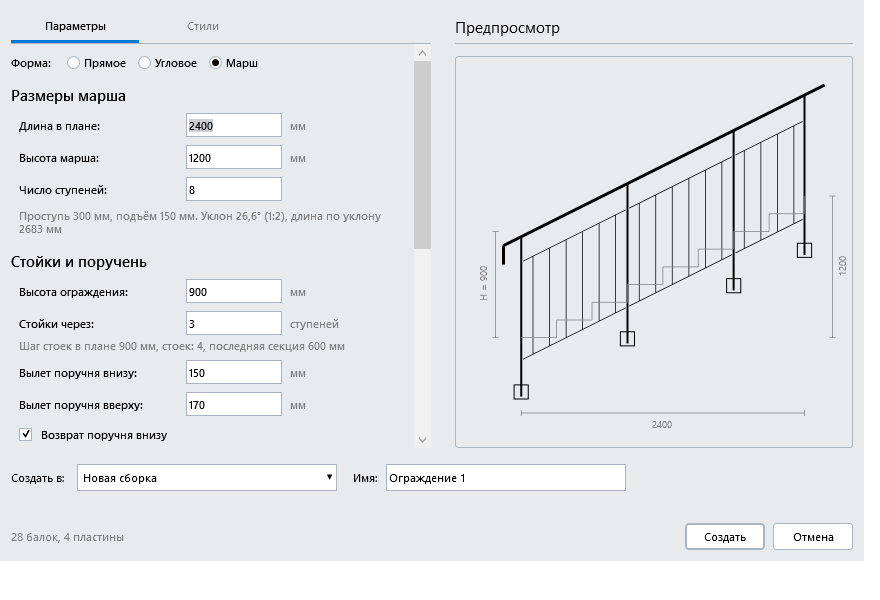
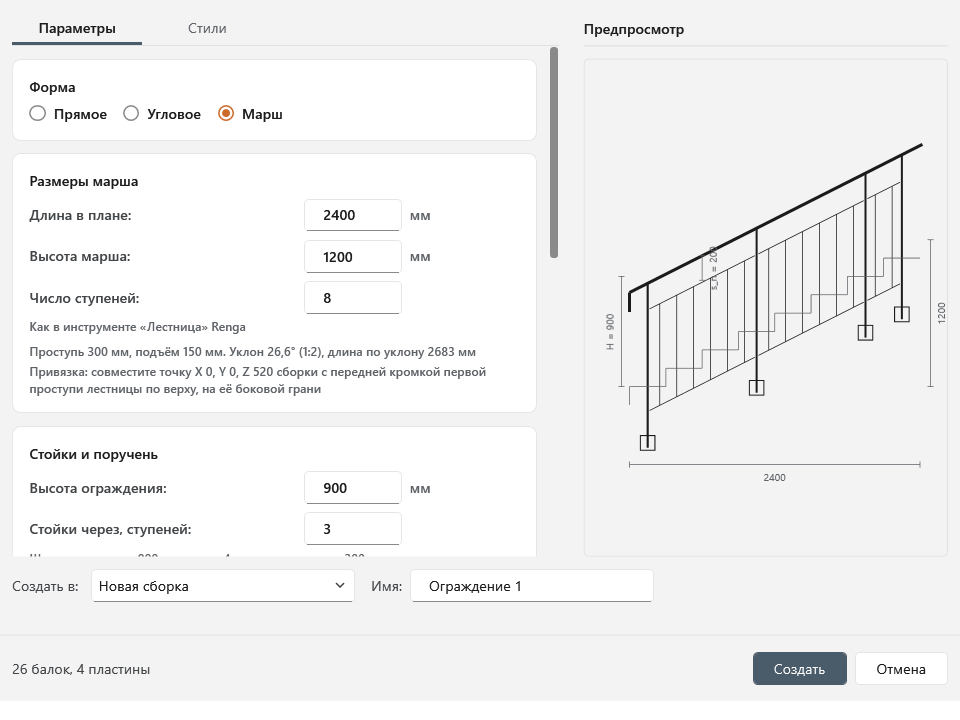
Версия 0.4: верхняя перекладина, крайняя стойка марша, окно Windows 11

diff --git a/README.md b/README.md
@@ -1,8 +1,8 @@
 # Генератор ограждений для Renga
 
-Плагин для [Renga](https://rengabim.com): создаёт ограждение из балок внутри сборки по заданной схеме — стойки, поручень, нижние перекладины, заполнение и пластины под стойками — для прямого и углового ограждений и для ограждения лестничного марша — и назначает им выбранные стили балок, стиль пластин и материал. Ограждение можно перестроить с другими параметрами: прежнее удаляется вместе с пластинами, остальные объекты сборки не затрагиваются.
+Плагин для [Renga](https://rengabim.com): создаёт ограждение из балок внутри сборки по заданной схеме — стойки, поручень, нижние и (по желанию) верхние перекладины, заполнение и пластины под стойками — для прямого и углового ограждений и для ограждения лестничного марша — и назначает им выбранные стили балок, стиль пластин и материал. Ограждение можно перестроить с другими параметрами: прежнее удаляется вместе с пластинами, остальные объекты сборки не затрагиваются.
 
-Версия 0.3.
+Версия 0.4.
 
 ![Окно «Генератор ограждений»](docs/window-params.png)
 
@@ -30,6 +30,13 @@
 
 ![Вкладка «Стили»](docs/window-styles.png)
 
+## Что нового в 0.4
+- **Верхняя перекладина** у прямого и углового ограждения (по желанию): включается галочкой, положение задаётся размером «Низ поручня — верх перекладины» (по умолчанию 200 мм). Заполнение при этом идёт только между нижней и верхней перекладиной. Стиль перекладины тот же, что у нижней.
+- Угловое ограждение: переключатель угла теперь «Слева, Справа».
+- Марш: последняя стойка всегда стоит на последней проступи лестницы (исправлена «висящая» верхняя стойка); пластины на марше «Без», «Снизу» или «Сбоку»; размер «Низ поручня — верх перекладины» вместо прежнего «Перекладина ниже поручня».
+- Новое окно в стиле Windows 11 и новый значок на ленте.
+- Ограждения версий 0.1-0.3 открываются без изменений; ограждение марша 0.3 при замене переходит на новую метку.
+
 ## Что нового в 0.3
 - Форма «Марш»: ограждение лестничного марша по длине, высоте и числу ступеней.
 - Угловое ограждение: угол справа или слева.
@@ -49,9 +56,9 @@
 - В проекте должен быть хотя бы один стиль балки (например, «Труба 30х30х3,5»); для пластин - хотя бы один стиль пластины.
 
 ## Установка
-1. Скачайте архив `RailingGenerator-0.3.zip` на странице [Releases](../../releases).
+1. Скачайте архив `RailingGenerator-0.4.zip` на странице [Releases](../../releases).
 2. Закройте Renga.
-3. Распакуйте архив и скопируйте папку `RailingGenerator` в `C:\Program Files\Renga Professional\Plugins\` (потребуются права администратора). При обновлении с 0.1 или 0.2 замените папку `RailingGenerator` целиком.
+3. Распакуйте архив и скопируйте папку `RailingGenerator` в `C:\Program Files\Renga Professional\Plugins\` (потребуются права администратора). При обновлении с 0.1, 0.2 или 0.3 замените папку `RailingGenerator` целиком.
 4. Запустите Renga: на ленте появится кнопка «Генератор ограждений».
 
 Если кнопки нет, посмотрите журнал `%localappdata%\Renga Software\Renga Professional\AecApp.log`. Журнал самого плагина - `%LOCALAPPDATA%\RailingGenerator\`.
